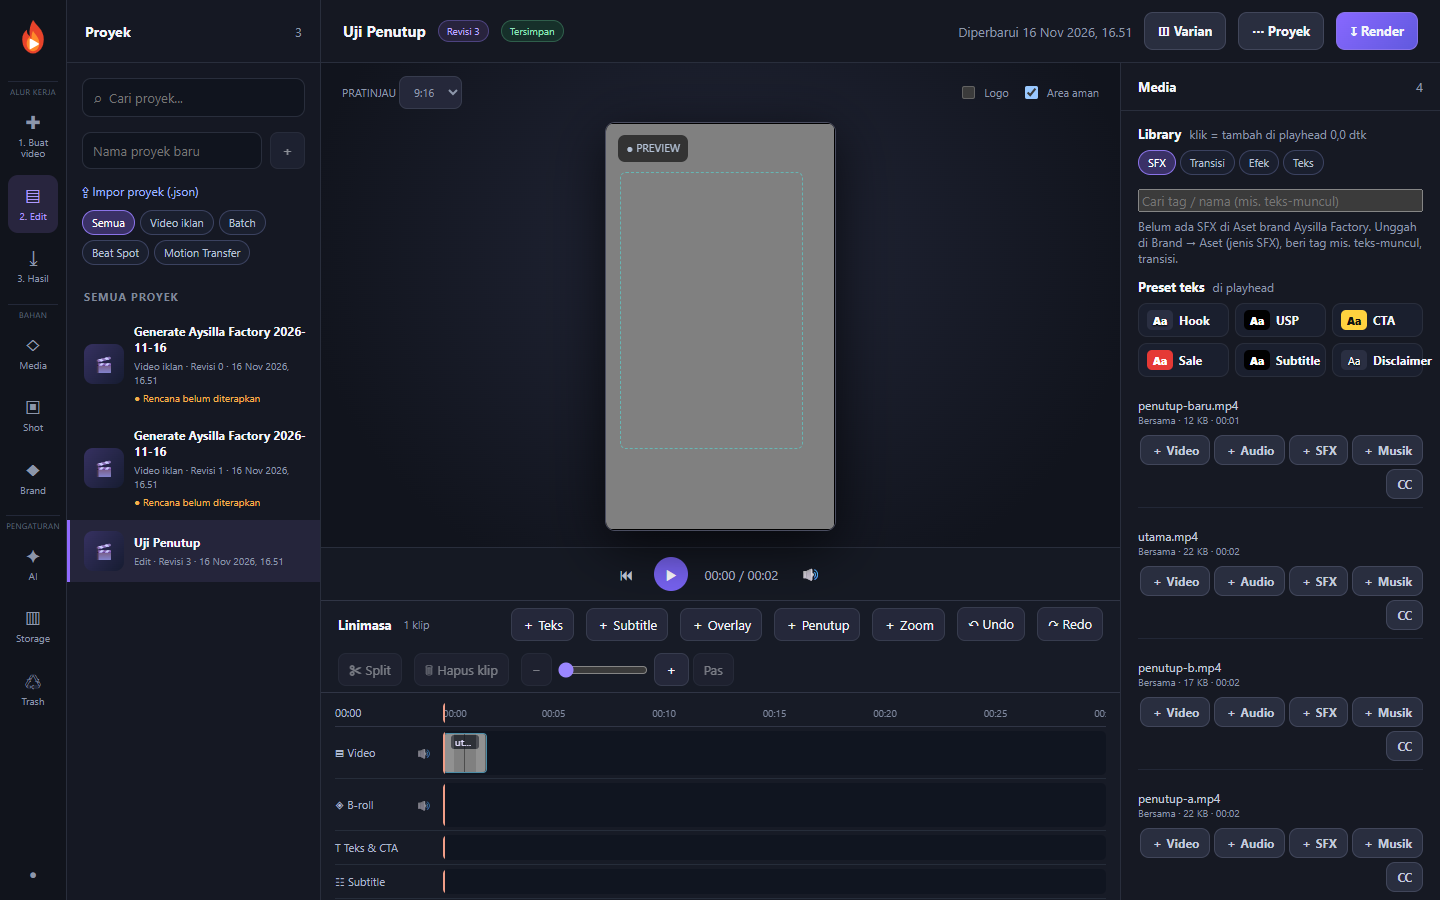
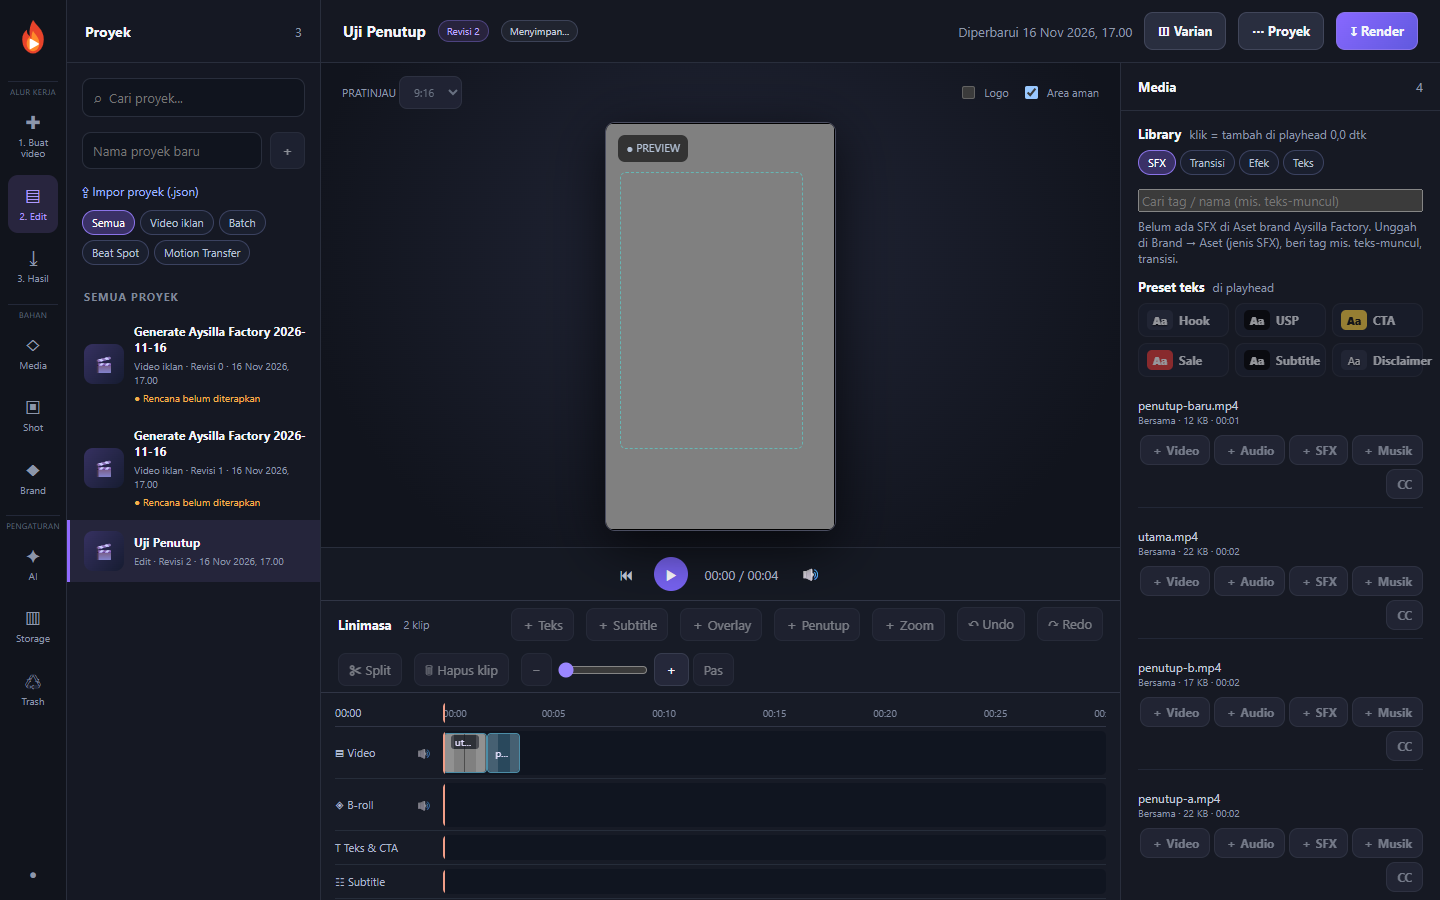
task R36: Brand "Dipelajari dari koreksi editor" — daftar kamus belajar, Tambah ke kamus, Abaikan
- core: Brand Kit `kamus_abaikan` (huruf kecil, unik; kit lama = []); readKamusBelajar(ws, brand) =
  kamusBelajar(readLearning(brand), [name, ...kosakata, ...kata_kunci], kamus) tanpa kata yang
  diabaikan; addLearnedKamus (job berikutnya) memakai aturan yang sama → kata diabaikan tidak dipakai
- server: GET /api/brands/:brand_id/kamus-belajar → { pasangan, abaikan }
- web Brand → C: "Dipelajari dari koreksi editor" — label "otomatis dipakai" / "usulan", jumlah
  koreksi, "Tambah ke kamus" (masuk Kamus, bisa diedit), "Abaikan" (+ "Batal abaikan"); berlaku
  setelah Simpan Brand Kit
- tes core r36-kamus-brand (2) + audit UI R36 9/9 (masuk test:ui)

diff --git a/packages/core/test/r36-kamus-brand.test.ts b/packages/core/test/r36-kamus-brand.test.ts
@@ -1,0 +1,54 @@
+import { execFileSync } from 'node:child_process';
+import { promises as fsp } from 'node:fs';
+import path from 'node:path';
+import { describe, expect, it } from 'vitest';
+import { validateBrandInput } from '../src/storage/brand.js';
+import { engineJobDir, prepareEngineJob, readKamusBelajar, validateEngineJob } from '../src/storage/engine.js';
+import { learnFile } from '../src/storage/learning.js';
+import { StorageService } from '../src/storage/service.js';
+import { createProject } from '../src/storage/workspace.js';
+import { fixtureWorkspace } from './fixtures.js';
+
+/**
+ * R36 (owner): Brand → C "Dipelajari dari koreksi editor" — daftar pasangan dari kamusBelajar,
+ * "Tambah ke kamus" (kamus tim menang) dan "Abaikan" (kamus_abaikan, dihormati addLearnedKamus).
+ */
+const FFMPEG = process.env.MOTION_FFMPEG || 'ffmpeg';
+const kor = (sebelum: string, sesudah: string, at = 1) => JSON.stringify({ jenis: 'koreksi', bagian: 'kata', track: 'subtitle', op: 'set_text', sebelum, sesudah, at });
+
+describe('R36 kamus belajar per brand', () => {
+  it('kamus_abaikan: lowercase, unique, optional (older kits)', () => {
+    expect(validateBrandInput({ name: 'A' }).kamus_abaikan).toEqual([]);
+    expect(validateBrandInput({ name: 'A', kamus_abaikan: ['Cana', 'cana', 'Janganlah'] }).kamus_abaikan).toEqual(['cana', 'janganlah']);
+    expect(() => validateBrandInput({ name: 'A', kamus_abaikan: 'cana' })).toThrow(/kamus diabaikan/);
+  });
+
+  it('list for the Brand page + next job: kamus wins, ignored words are gone everywhere', async () => {
+    const fx = await fixtureWorkspace();
+    const svc = new StorageService(fx.ws);
+    const kit = (await svc.createBrand({ kit: { name: 'Aysilla Factory', kode: 'AYS' }, actor: 'user' })).result;
+    await fsp.mkdir(path.dirname(learnFile(fx.ws, kit.brand_id)), { recursive: true });
+    await fsp.writeFile(learnFile(fx.ws, kit.brand_id), [kor('mau punya cana', 'mau punya celana'), kor('Icy Love Factory.', 'Aysilla Factory.'), kor('Janganlah sekarang yuk', 'Join Live sekarang yuk')].join('\n') + '\n');
+
+    const r0 = await readKamusBelajar(fx.ws, kit.brand_id);
+    const by = Object.fromEntries(r0.pasangan.map((p) => [p.salah, p]));
+    expect(Object.keys(by).sort()).toEqual(['cana', 'icy love', 'janganlah']);
+    expect([by.cana!.otomatis, by['icy love']!.otomatis, by.janganlah!.otomatis]).toEqual([true, true, false]);
+    expect(r0.abaikan).toEqual([]);
+
+    // "Tambah ke kamus" for janganlah (with the team's own spelling), "Abaikan" for cana.
+    await svc.setBrandKit({ brand_id: kit.brand_id, expected_revision: kit.revision, kit: { name: kit.name, kode: kit.kode, kamus: [{ salah: 'janganlah', benar: 'Join Live' }], kamus_abaikan: ['cana'] }, actor: 'user' });
+    const r1 = await readKamusBelajar(fx.ws, kit.brand_id);
+    expect(r1.pasangan.map((p) => p.salah)).toEqual(['icy love']);
+    expect(r1.abaikan).toEqual(['cana']);
+
+    // Next job: the team's pair + the remaining safe pair; the ignored word is not applied.
+    await createProject(fx.ws, { project_id: 'g', name: 'G' });
+    const f = path.join(fx.src, 'bicara.mp4');
+    execFileSync(FFMPEG, ['-v', 'error', '-f', 'lavfi', '-i', 'testsrc=s=320x240:r=30:d=1', '-c:v', 'libx264', '-pix_fmt', 'yuv420p', f], { windowsHide: true });
+    const m = await svc.importMedia({ sourcePath: f, scope: { kind: 'project', project_id: 'g' }, actor: 'user' });
+    const s = await prepareEngineJob(fx.ws, validateEngineJob({ project_id: 'g', mode: 'generate', sources: [{ kunci: '$sumber', ref: { media_id: m.media.media_id, version_id: m.version.version_id } }], preset: 'p', brief: { produk: '', varian: '', harga: '', placement: 'tiktok', catatan: '' }, ai: false }));
+    const exp = JSON.parse(await fsp.readFile(path.join(engineJobDir(fx.ws, 'g', s.job_id), 'brand_kit.json'), 'utf8'));
+    expect(exp.teks.kamus).toEqual({ janganlah: 'Join Live', 'icy love': 'Aysilla' });
+  }, 60_000);
+});

diff --git a/apps/web/src/views/KamusBelajar.tsx b/apps/web/src/views/KamusBelajar.tsx
@@ -1,0 +1,66 @@
+import { useEffect, useState } from 'react';
+import type { Api, BrandKitInput, KamusBelajarPasangan } from '../api';
+
+/**
+ * R36 Brand → C "Dipelajari dari koreksi editor": words the team corrected in engine subtitles
+ * (core kamusBelajar). "otomatis dipakai" pairs already go to the next job's Whisper fixes;
+ * "usulan" pairs wait for the team. "Tambah ke kamus" moves a pair into the Brand Kit dictionary,
+ * "Abaikan" stops it for good (kamus_abaikan) — both are draft changes saved with "Simpan Brand Kit"
+ * (hybrid: the team decides, every automatic choice can be changed).
+ */
+export function KamusBelajar({ api, brandId, revision, draft, set }: { api: Api; brandId: string | null; revision: number | null; draft: BrandKitInput; set: (patch: Partial<BrandKitInput>) => void }) {
+  const [list, setList] = useState<KamusBelajarPasangan[] | null>(null);
+  const [error, setError] = useState<string | null>(null);
+  useEffect(() => {
+    let live = true;
+    setList(null);
+    setError(null);
+    if (!brandId) return;
+    api.kamusBelajar(brandId).then(
+      (r) => live && setList(r.pasangan),
+      (e) => live && setError(e instanceof Error ? e.message : String(e)),
+    );
+    return () => {
+      live = false;
+    };
+  }, [api, brandId, revision]);
+  if (!brandId) return null;
+  const inKamus = new Set(draft.kamus.map((k) => k.salah.trim().toLowerCase()));
+  const ignored = new Set((draft.kamus_abaikan ?? []).map((w) => w.toLowerCase()));
+  const shown = (list ?? []).filter((p) => !inKamus.has(p.salah.toLowerCase()) && !ignored.has(p.salah.toLowerCase()));
+  return (
+    <div className="kamusBelajar" role="group" aria-label="Dipelajari dari koreksi editor">
+      <b className="small">Dipelajari dari koreksi editor</b>
+      <div className="muted small">Kata yang dibetulkan tim di subtitle mesin. "Otomatis dipakai" langsung masuk ke job berikutnya; "usulan" menunggu keputusan tim.</div>
+      {error && <div className="notice err small">{error}</div>}
+      {list && !shown.length && <div className="muted small">Belum ada koreksi baru dari editor.</div>}
+      {shown.map((p) => (
+        <div key={p.salah} className="row wrap kamusRow" role="group" aria-label={`Belajar ${p.salah}`} style={{ gap: 6, alignItems: 'center' }}>
+          <span className="kamusPair">
+            <s>{p.salah}</s> → <b>{p.benar}</b>
+          </span>
+          <span className={`badge ${p.otomatis ? 'ok' : 'warn'}`}>{p.otomatis ? 'otomatis dipakai' : 'usulan'}</span>
+          <span className="muted small">{p.kali}× dibetulkan</span>
+          <span className="spacer" />
+          <button className="btn small" aria-label={`Tambah ${p.salah} ke kamus`} onClick={() => set({ kamus: [...draft.kamus, { salah: p.salah, benar: p.benar }] })}>
+            Tambah ke kamus
+          </button>
+          <button className="btn small" aria-label={`Abaikan ${p.salah}`} onClick={() => set({ kamus_abaikan: [...(draft.kamus_abaikan ?? []), p.salah.toLowerCase()] })}>
+            Abaikan
+          </button>
+        </div>
+      ))}
+      {(draft.kamus_abaikan ?? []).length > 0 && (
+        <div className="row wrap" style={{ gap: 4, alignItems: 'center' }} aria-label="Kata yang diabaikan">
+          <span className="muted small">Diabaikan:</span>
+          {(draft.kamus_abaikan ?? []).map((w) => (
+            <button key={w} className="chip tiny" aria-label={`Batal abaikan ${w}`} title="Klik untuk tidak mengabaikan lagi" onClick={() => set({ kamus_abaikan: (draft.kamus_abaikan ?? []).filter((x) => x !== w) })}>
+              {w} ✕
+            </button>
+          ))}
+        </div>
+      )}
+      {(list?.length ?? 0) > 0 && <div className="muted small">Perubahan berlaku setelah Simpan Brand Kit.</div>}
+    </div>
+  );
+}

diff --git a/packages/core/src/storage/engine.ts b/packages/core/src/storage/engine.ts
@@ -17,7 +17,7 @@ import { execFile, spawn } from 'node:child_process';
 import fsp from 'node:fs/promises';
 import path from 'node:path';
 import { fileURLToPath } from 'node:url';
-import { type BrandKit, assetKunci, brandReferences, exportBrandKit, readBrandFor } from './brand.js';
+import { type BrandKit, assetKunci, brandReferences, exportBrandKit, readBrand, readBrandFor } from './brand.js';
 import { OVERLAY_DEFAULT, type Overlay, validateOverlay } from './overlay.js';
 import { localDate } from './brandGuard.js';
 import { createLease, releaseLease, setLeaseStatus } from './deps.js';
@@ -36,7 +36,7 @@ import { LAYOUT, type Workspace, listProjectIds, projectRel, readProject } from 
 import { writeJsonAtomic } from './jsonStore.js';
 import { audit } from './audit.js';
 import { markEngineOrigin, readLearning } from './learning.js';
-import { kamusBelajar } from './kamusBelajar.js';
+import { type PasanganKamus, kamusBelajar } from './kamusBelajar.js';
 import { type TtsSettings, validateTtsJob } from './tts.js';
 import { validateVisualJob } from './visual.js';
 import { type SuaraProfilSettings, validateSuaraProfilJob } from './suaraOwner.js';
@@ -566,13 +566,28 @@ async function addLearnedKamus(ws: Workspace, kit: BrandKit, brandExport: Record
   try {
     const teks = brandExport.teks as { kamus?: Record<string, string> } | undefined;
     if (!teks || !kit.brand_id) return;
-    const pasangan = kamusBelajar(await readLearning(ws, kit.brand_id), [kit.name, ...kit.kosakata, ...kit.kata_kunci], kit.kamus);
+    const pasangan = learnedFor(kit, await readLearning(ws, kit.brand_id));
     const kamus = { ...(teks.kamus ?? {}) };
     for (const p of pasangan) if (p.otomatis && !(p.salah in kamus)) kamus[p.salah] = p.benar;
     teks.kamus = kamus;
   } catch {
     /* learning must never break a job */
   }
+}
+
+/** R36: what a brand learned from editor corrections, minus the pairs the team chose to ignore. */
+function learnedFor(kit: BrandKit, notes: readonly Record<string, unknown>[]): PasanganKamus[] {
+  const abaikan = new Set((kit.kamus_abaikan ?? []).map((w) => w.toLowerCase()));
+  return kamusBelajar(notes, [kit.name, ...kit.kosakata, ...kit.kata_kunci], kit.kamus).filter((p) => !abaikan.has(p.salah.toLowerCase()));
+}
+
+/**
+ * R36 Brand "Dipelajari dari koreksi editor": learned pairs (`otomatis` = used in the next job,
+ * else `usulan`) and the ignored wrong words. Pairs already in the Brand Kit dictionary are not listed.
+ */
+export async function readKamusBelajar(ws: Workspace, brandId: string): Promise<{ pasangan: PasanganKamus[]; abaikan: string[] }> {
+  const kit = await readBrand(ws, brandId);
+  return { pasangan: learnedFor(kit, await readLearning(ws, kit.brand_id)), abaikan: kit.kamus_abaikan };
 }
 
 /**

diff --git a/apps/web/src/api.ts b/apps/web/src/api.ts
@@ -8,6 +8,15 @@ import type { Overlay } from '../../../packages/core/dist/storage/overlay.js';
  * carries `x-motion-request: 1`, which the server requires (a cross-site page cannot send it).
  */
 
+/** R36: one word pair learned from editor corrections (core kamusBelajar). */
+export interface KamusBelajarPasangan {
+  salah: string;
+  benar: string;
+  kali: number;
+  otomatis: boolean;
+  terakhir: number;
+}
+
 /** X09: one ad variant of a master project. */
 export interface VariantRow {
   project_id: string;
@@ -121,6 +130,8 @@ export interface BrandKit {
   watermark: { teks: string; y: number; lebar: number; opasitas: number } | null;
   kosakata: string[];
   kamus: { salah: string; benar: string }[];
+  /** R36: learned wrong words the team chose to ignore. */
+  kamus_abaikan: string[];
   /** R34: how the TTS says a written word ("Aysilla" → "Ay-si-la"). */
   pelafalan: { tulisan: string; ucapan: string }[];
   kata_kunci: string[];
@@ -881,6 +892,8 @@ export function createApi(token: string | null, base = '') {
     // U1: brands
     brands: () => call<{ brands: BrandKit[]; default_id: string | null }>('GET', '/api/brands'),
     brandById: (id: string) => call<{ brand: BrandKit }>('GET', `/api/brands/${encodeURIComponent(id)}`).then((r) => r.brand),
+    /** R36: pairs learned from editor corrections (+ ignored words). */
+    kamusBelajar: (id: string) => call<{ pasangan: KamusBelajarPasangan[]; abaikan: string[] }>('GET', `/api/brands/${encodeURIComponent(id)}/kamus-belajar`),
     createBrand: (kit: BrandKitInput) => call<{ brand: BrandKit }>('POST', '/api/brands', { json: { kit } }).then((r) => r.brand),
     saveBrandById: (id: string, expected_revision: number, kit: BrandKitInput) => call<{ brand: BrandKit }>('POST', `/api/brands/${encodeURIComponent(id)}`, { json: { expected_revision, kit } }).then((r) => r.brand),
     /** R13: copy a Brand Kit (with presets) as a new brand. */

diff --git a/packages/core/src/storage/brand.ts b/packages/core/src/storage/brand.ts
@@ -164,6 +164,8 @@ export interface BrandKit {
   watermark: { teks: string; y: number; lebar: number; opasitas: number } | null;
   kosakata: string[];
   kamus: { salah: string; benar: string }[];
+  /** R36: learned fixes the team rejected ("Abaikan"): wrong words never applied automatically again. */
+  kamus_abaikan: string[];
   /** R34 (§21): how the TTS should SAY a written word, e.g. "Aysilla" → "Ay-si-la" (text / subtitles keep the writing). */
   pelafalan: { tulisan: string; ucapan: string }[];
   kata_kunci: string[];
@@ -213,6 +215,7 @@ const EMPTY_FIELDS: Omit<BrandKitInput, 'name' | 'kode'> = {
   watermark: null,
   kosakata: [],
   kamus: [],
+  kamus_abaikan: [],
   pelafalan: [],
   kata_kunci: [],
   kapital: 'normal',
@@ -496,6 +499,7 @@ export function validateBrandInput(raw: unknown): BrandKitInput {
     tagline: text(o.tagline, 'tagline', 120),
     watermark,
     kosakata: list(o.kosakata, 'kosakata Whisper', 300, 60),
+    kamus_abaikan: [...new Set(list(o.kamus_abaikan, 'kamus diabaikan', 300, 60).map((w) => w.toLowerCase()))],
     kamus: kamus.map((k, i) => {
       const ko = obj(k, `kamus ${i + 1}`, ['salah', 'benar']);
       return { salah: text(ko.salah, `kamus ${i + 1} salah`, 60, false), benar: text(ko.benar, `kamus ${i + 1} benar`, 60, false) };

diff --git a/apps/web/src/views/BrandView.tsx b/apps/web/src/views/BrandView.tsx
@@ -6,6 +6,7 @@ import { nextPresetId } from '../lib';
 import { ErrorNotice } from '../ui';
 import { LOOKS, LOOK_IDS } from '../../../../packages/core/dist/storage/clipLook.js';
 import { AssetLibrary } from './AssetLibrary';
+import { KamusBelajar } from './KamusBelajar';
 
 const FONT_RE = /\.(ttf|otf)$/i;
 const LOGO_RE = /\.(png|jpe?g|webp)$/i;
@@ -517,6 +518,7 @@ export function BrandView({ api, readOnly = false }: { api: Api; readOnly?: bool
               <button className="btn small" onClick={() => set({ kamus: [...draft.kamus, { salah: '', benar: '' }] })}>
                 ＋ Pasangan kamus
               </button>
+              <KamusBelajar api={api} brandId={selected === 'new' ? null : (kit?.brand_id ?? null)} revision={kit?.revision ?? null} draft={draft} set={set} />
               {/* R34: pronunciation for "Suara dari Teks" — only the voice changes, text & subtitles keep the writing. */}
               <b className="small">Pelafalan suara (tulisan → cara dibaca)</b>
               <div className="muted small">Dipakai "Suara dari Teks". Teks & subtitle tetap memakai tulisan aslinya.</div>

diff --git a/apps/web/src/styles.css b/apps/web/src/styles.css
@@ -467,6 +467,9 @@ label.inline { display: inline-flex; align-items: center; gap: 6px; }
 .presetGrid { display: grid; grid-template-columns: repeat(auto-fill, minmax(88px, 1fr)); gap: 6px; }
 .presetBtn { display: flex; align-items: center; gap: 6px; padding: 6px 8px; border: 1px solid var(--line); background: #1a1f2e; border-radius: 9px; color: inherit; font-size: 12px; font-weight: 650; }
 .presetBtn:hover:not(:disabled) { background: #242a3d; }
+/* R36: Brand → C words learned from editor corrections. */
+.kamusBelajar { display: grid; gap: 6px; padding: 8px; border: 1px dashed var(--line); border-radius: 8px; }
+.kamusRow .kamusPair s { color: var(--red); }
 /* R27: Library in the Editor (SFX / Transisi / Efek / Teks). */
 .libraryPanel .libList { display: grid; gap: 6px; margin-top: 6px; }
 .libraryPanel .libList input { width: 100%; }

diff --git a/apps/web/src/demo/mockApi.ts b/apps/web/src/demo/mockApi.ts
@@ -374,6 +374,7 @@ export function createDemoApi(): Api {
     saveBrand: async (rev, kit) => api.saveBrandById(defaultBrand, rev, kit),
     brands: async () => ({ brands: clone([...brandStore.values()].sort((a, b) => a.name.localeCompare(b.name))), default_id: defaultBrand }),
     brandById: async (id) => clone(brandStore.get(id) ?? fail(404, 'NOT_FOUND', 'Brand tidak ditemukan')),
+    kamusBelajar: async (id) => ({ pasangan: [], abaikan: clone(brandStore.get(id) ?? fail(404, 'NOT_FOUND', 'Brand tidak ditemukan')).kamus_abaikan ?? [] }),
     createBrand: async (kit) => {
       if (!kit.name.trim()) fail(422, 'EDIT_INVALID', 'Brand Kit: nama wajib diisi');
       const kode = (kit.kode || kit.name.slice(0, 3)).toUpperCase();

diff --git a/apps/server/src/routes.ts b/apps/server/src/routes.ts
@@ -25,6 +25,7 @@ import {
   historyCounts,
   listProjectIds,
   loadRegistry,
+  readKamusBelajar,
   readProject,
   checkBrandGuard,
   localDate,
@@ -475,6 +476,8 @@ export function apiRoutes(upload: Partial<UploadOptions> = {}, signer: StreamSig
       },
     },
     { method: 'GET', path: '/api/brands/:brand_id', handle: async ({ svc, params }) => ({ brand: await svc.readBrand(params.brand_id!) }) },
+    // R36: words learned from editor corrections of subtitles (Brand → C "Dipelajari dari koreksi editor").
+    { method: 'GET', path: '/api/brands/:brand_id/kamus-belajar', handle: async ({ ws, params }) => readKamusBelajar(ws, params.brand_id!) },
     {
       method: 'POST',
       path: '/api/brands/:brand_id',

diff --git a/apps/web/src/brand.ts b/apps/web/src/brand.ts
@@ -91,6 +91,7 @@ export const emptyKit = (): BrandKitInput => ({
   watermark: null,
   kosakata: [],
   kamus: [],
+  kamus_abaikan: [],
   pelafalan: [],
   kata_kunci: [],
   kapital: 'normal',

diff --git a/packages/core/src/index.ts b/packages/core/src/index.ts
@@ -52,6 +52,7 @@ export {
   engineConfigFromEnv,
   isJobId,
   listEngineJobs,
+  readKamusBelajar,
   loadEnginePlan,
   prepareEngineJob,
   readBatchDecisions,
